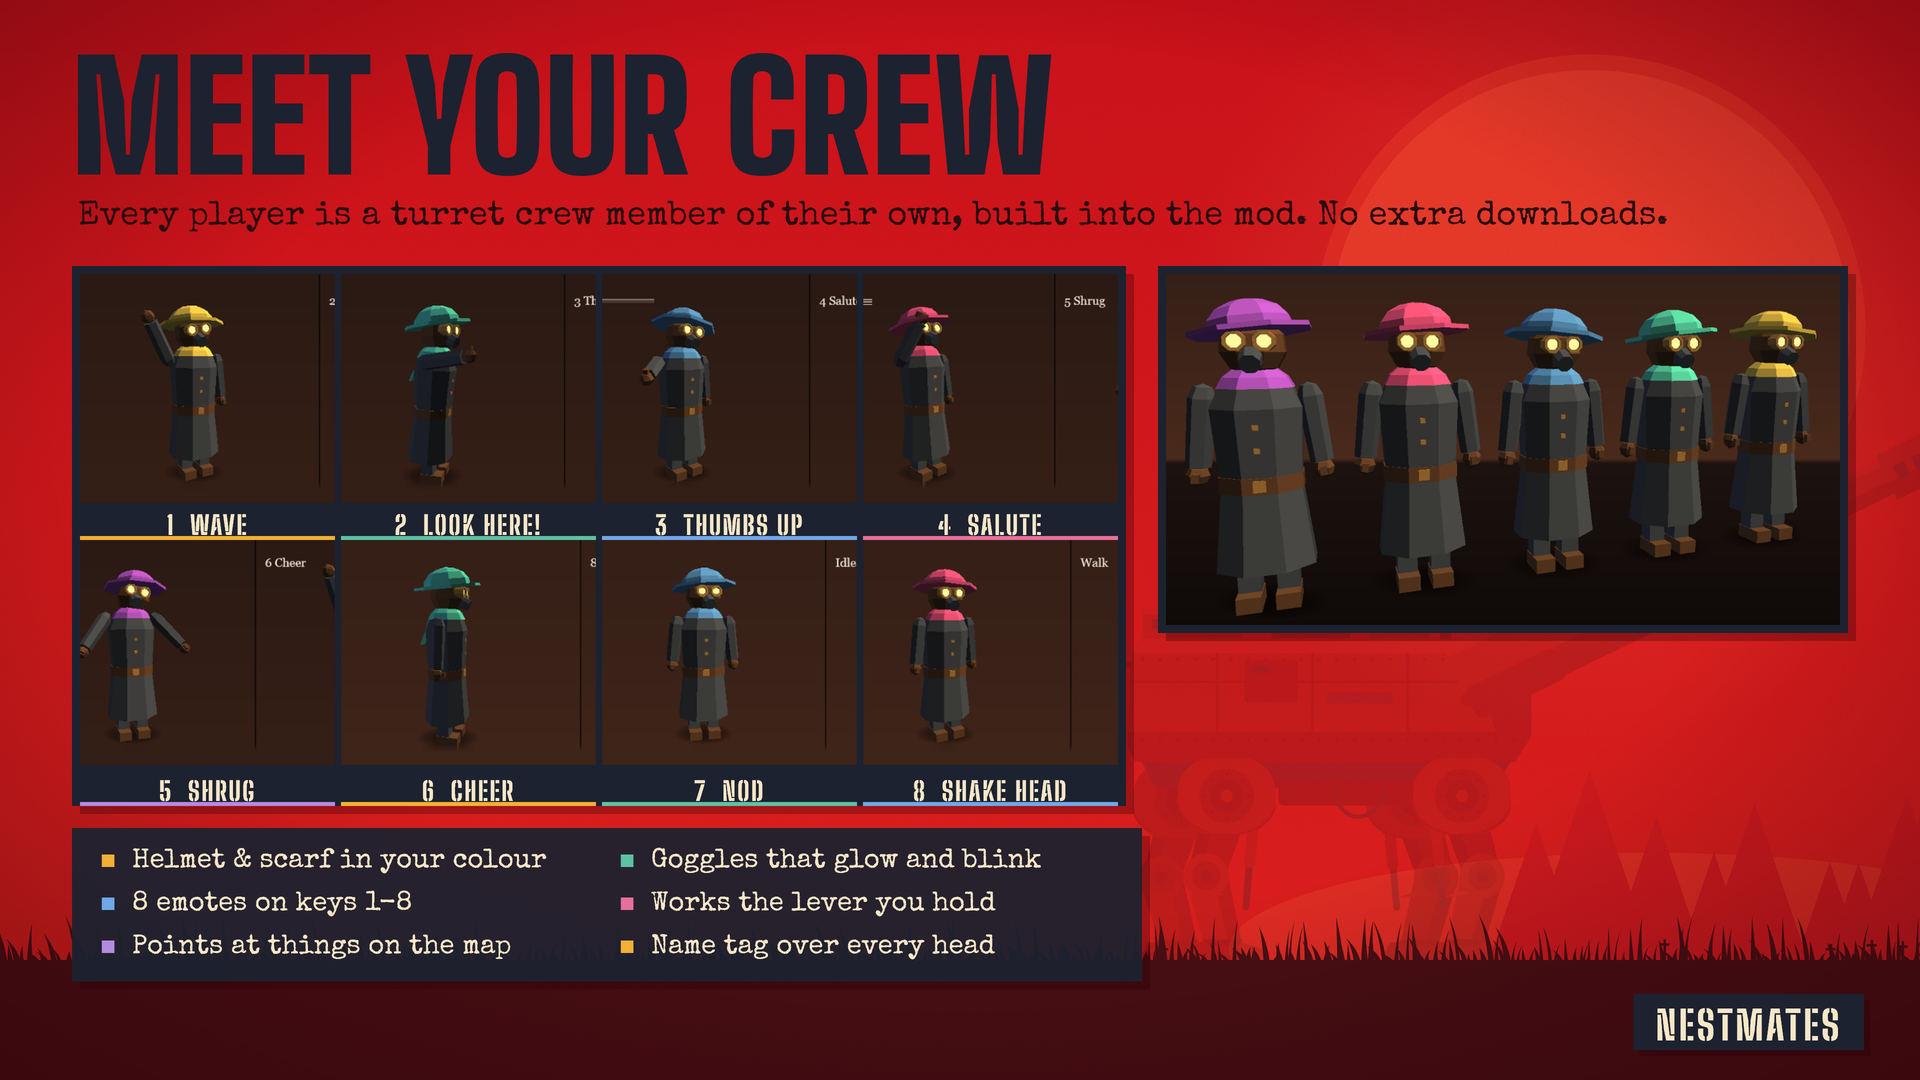
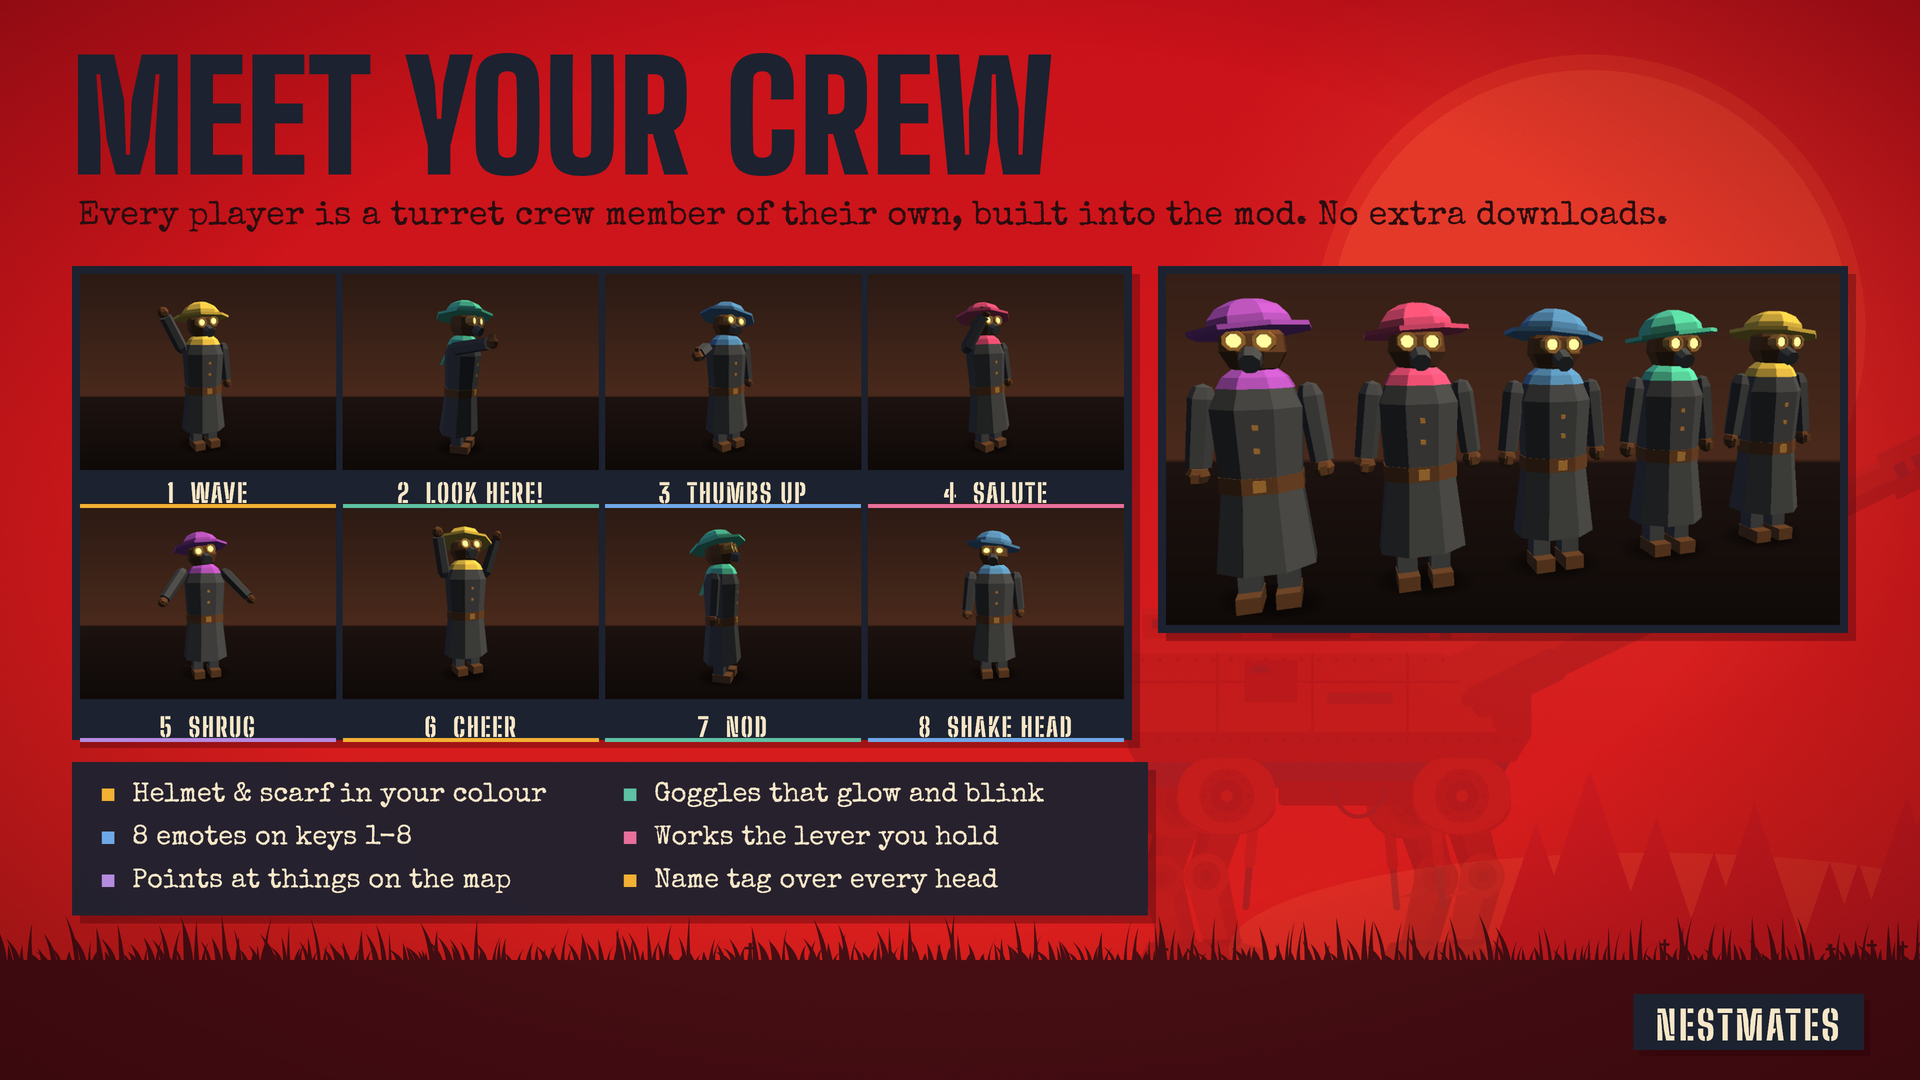
docs: mark the audit as a pre-release log with its 1.0.0 status

Changed region(s): [[0.0312, 0.2444, 0.625, 0.9167]]

diff --git a/docs/nexus/art/make_art.py b/docs/nexus/art/make_art.py
@@ -428,35 +428,13 @@ EMOTES = ["Wave", "Look here!", "Thumbs up", "Salute", "Shrug", "Cheer", "Nod", 
 
 def crew_slide():
     w, h = 1920, 1080
-    # the 8 emotes from the avatar contact sheet (cells 320x250; row 1 = emotes 1-5, row 2 = 6-8).
-    # Each cell loses its small label strip (top 30 px) and gets a band below for a readable label.
-    # Full contact-sheet cells (raised arms reach almost to the top), with only the sheet's small label painted
-    # out, plus a strip of plain wall above and floor below, so every figure has a margin in its frame.
-    # Cell interiors only: the sheet's 2 px separators are at rows 249-250 and columns 319-320 of every cell.
-    CW, CH, BAND, PT, PB, GAP = 318, 248, 42, 16, 26, 8
-    cell_h = PT + CH + PB
-    sheet = Image.open(os.path.join(AVATAR_IMG, "contact-sheet.png")).convert("RGB")
-    grid = Image.new("RGB", (4 * CW + 3 * GAP, 2 * (cell_h + BAND)), INK)
+    # The 8 emote tiles are clean renders made by render_emotes.py (art/emotes/emote_<n>.png, no labels or cell
+    # lines), one per emote at a readable moment. Each tile gets a band below for its label.
+    CW, CH, BAND, GAP = 320, 250, 42, 8
+    grid = Image.new("RGB", (4 * CW + 3 * GAP, 2 * (CH + BAND)), INK)
     for i in range(8):
-        r, c = divmod(i, 5)
-        cell = sheet.crop((c * 320 + 1, r * 250 + 1, c * 320 + 1 + CW, r * 250 + 1 + CH))
-        px = cell.load()
-        # the sheet's label ("1 Wave"...) is light grey text in the top-left corner; figures there are colour or dark
-        lw = max([x for y in range(0, 36) for x in range(0, 170)
-                  if sum(px[x, y]) > 330 and max(px[x, y]) - min(px[x, y]) < 40] or [0])
-        for y in range(0, 36):
-            bg = px[1, y]
-            for x in range(0, min(CW, lw + 8)):
-                px[x, y] = bg
-        framed = Image.new("RGB", (CW, cell_h))
-        framed.paste(cell.crop((0, 2, CW, 3)).resize((CW, PT)), (0, 0))                 # plain wall above
-        framed.paste(cell, (0, PT))
-        last, floor = cell.crop((0, CH - 1, CW, CH)), px[2, CH - 2]
-        for j in range(PB):                                                             # floor below, fading any
-            t = min(1.0, (j + 1) / 10)                                                   # shadow into plain floor
-            framed.paste(Image.blend(last, Image.new("RGB", (CW, 1), floor), t), (0, PT + CH + j))
-        grid.paste(framed, ((i % 4) * (CW + GAP), (i // 4) * (cell_h + BAND)))
-    CH = cell_h                                   # the label maths below works on the framed cell
+        tile = Image.open(os.path.join(HERE, "emotes", f"emote_{i + 1}.png")).convert("RGB").resize((CW, CH), Image.LANCZOS)
+        grid.paste(tile, ((i % 4) * (CW + GAP), (i // 4) * (CH + BAND)))
     gp = os.path.join(TMP, "crew_emotes.png"); grid.save(gp)
     front, fw, fh = _scaled(gp, 1060, 540, "crew_emotes_s.png")
     k = (fw - 16) / grid.width          # the 8 px border sits inside the img box (border-box)

diff --git a/RELEASE_AUDIT.md b/RELEASE_AUDIT.md
@@ -1,10 +1,31 @@
-# IronNestCoop: pre-release code quality audit (v2, re-audit)
+# Nestmates: code quality audit log
+
+> **Status at release (1.0.0, 2026-10-29): released.** This file is the working log of three internal review
+> rounds held *before* 1.0. It is kept public for transparency. The verdicts further down describe the code as it
+> was on those dates, not the released build.
+>
+> What happened to the four release blockers from round 2:
+>
+> | Blocker | Status in 1.0.0 |
+> |---|---|
+> | Direct-connect TCP host exposed | Fixed: a join key is required, a host without a key listens on loopback only, and connections are capped. Still for trusted networks only (it says so in game). |
+> | State carried over between sessions | Fixed: every session gets a fresh epoch, and each module resets on session start and end. |
+> | Test and dev code in the release DLL | Made inert: test switches only work when the QA runner starts the game in its sandbox. The code is still compiled in. |
+> | Steam lobbies untested between real accounts | Tested by hand: two players on two machines and two Steam accounts, including Discord Join. |
+>
+> Round 3 found no new blockers. Its high items were fixed before release, except the item naming scheme
+> (R3-H4), which is partly fixed; the late-join and item tests pass. The remaining medium items harden
+> against a player who has already joined (Steam lobbies are friends or invite only), and they are planned for 1.1:
+> sender readiness checks on the host, size caps and rate limits for marker, item and alert messages, fragment
+> replay, per-frame network budgets, a punchcard lookup cache, a Discord pipe owner check, and rate-limited error logs.
+
+## Round 2 (v2 re-audit, 2026-10-28)
 
 | | |
 |---|---|
 | Date | 2026-10-28 (second pass, same day as v1) |
 | Version audited | 0.1.0 (released as 1.0.0) |
-| Repo state | `.git` present, still **zero commits** |
+| Repo state | not yet committed at the time (first commit came with the 1.0.0 release) |
 | Method | Six read-only Claude Haiku auditors, one per area. Each re-checked every v1 finding and searched for new issues. The coordinating agent then checked the highest-severity claims against the source. |
 
 Paths are relative to `src/IronNestCoop/` unless they start with `src/`, `tests/`, `tools/` or `dist/`. Line numbers are current as of this pass.
@@ -14,9 +35,9 @@ Paths are relative to `src/IronNestCoop/` unless they start with `src/`, `tests/
 - **No marker**: an auditor reported it from evidence, but no one re-checked it. Confirm before fixing.
 - **UNSURE**: depends on game internals. Needs a runtime or QA check.
 
-## Verdict
+## Verdict (at the time, 2026-10-28)
 
-**Not release-ready.** The codebase roughly doubled (~16k lines) since v1, and real progress has been made:
+**Not release-ready yet.** The codebase roughly doubled (~16k lines) since v1, and real progress has been made:
 
 - The network layer's crash and memory bugs are mostly fixed.
 - The F7 soft-lock is fixed.
